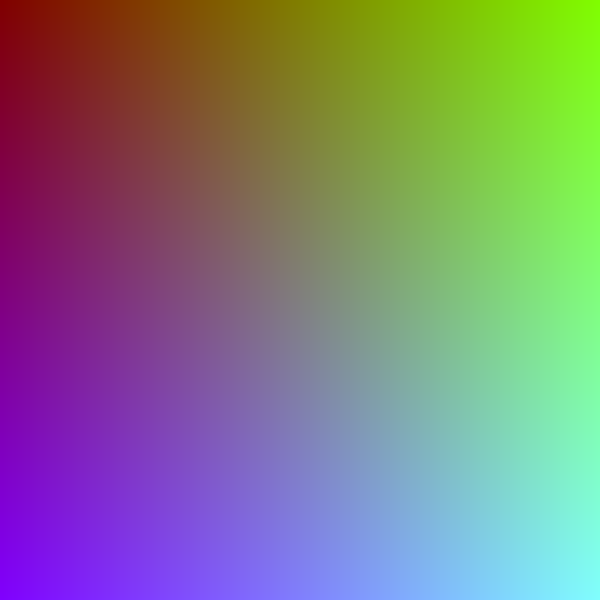
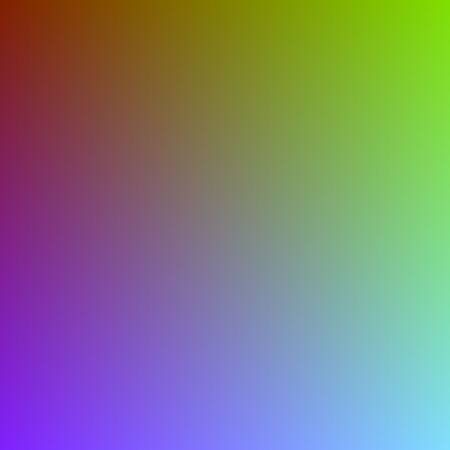
Fix tile orientation and support rectangle photos

Changed region(s): [[0.8711, 0.0, 1.0, 1.0], [0.0, 0.0, 0.1244, 1.0]]

diff --git a/tile.py b/tile.py
@@ -1,22 +1,10 @@
 import cv2
 
-
 class Tile:
-    """
-    One piece of the scrambled image.
-
-    Encapsulation: the tile's pixel data and transform state (rotation,
-    flips) are private (_prefixed) and only reachable through methods or
-    read-only properties — nothing outside this class reaches in and
-    edits them directly.
-    """
-
-    ROTATION_STEP = 90
-    FULL_ROTATION = 360
-
+    
     def __init__(self, image, home_row, home_col):
         """
-        image: the tile's original, unrotated/unflipped pixels (numpy array).
+        image: the tile's original pixels (numpy array).
         home_row, home_col: where this tile belongs when the puzzle is solved.
         """
         self._base_image = image
@@ -24,9 +12,8 @@ class Tile:
         self._home_col = home_col
         self._current_row = home_row
         self._current_col = home_col
-        self._rotation = 0
-        self._flip_horizontal = False
-        self._flip_vertical = False
+        self._turns = 0
+        self._mirrored = False
 
     @property
     def home_row(self):
@@ -49,49 +36,52 @@ class Tile:
         self._current_col = col
 
     def rotate(self, clockwise=True):
-        step = self.ROTATION_STEP if clockwise else -self.ROTATION_STEP
-        self._rotation = (self._rotation + step) % self.FULL_ROTATION
+        """Turns the tile 90 degrees."""
+        if clockwise:
+            self._turns = (self._turns + 1) % 4
+        else:
+            self._turns = (self._turns - 1) % 4
 
     def flip(self, direction):
         """direction is 'horizontal' or 'vertical'."""
         if direction == 'horizontal':
-            self._flip_horizontal = not self._flip_horizontal
+            # mirroring a turned tile is the same as mirroring first
+            # and then turning the other way
+            self._turns = (-self._turns) % 4
         elif direction == 'vertical':
-            self._flip_vertical = not self._flip_vertical
+            # a vertical flip is a horizontal flip plus a half turn
+            self._turns = (2 - self._turns) % 4
         else:
             raise ValueError("direction must be 'horizontal' or 'vertical'")
+        self._mirrored = not self._mirrored
 
     def reset(self):
-        """Clears rotation/flip state, but leaves current position alone —
+        """Clears rotation/flip, but leaves current position alone.
         Puzzle.solve() is responsible for moving tiles back home."""
-        self._rotation = 0
-        self._flip_horizontal = False
-        self._flip_vertical = False
+        self._turns = 0
+        self._mirrored = False
 
     def is_correct(self):
         return (
             self._current_row == self._home_row
             and self._current_col == self._home_col
-            and self._rotation == 0
-            and not self._flip_horizontal
-            and not self._flip_vertical
+            and self._turns == 0
+            and not self._mirrored
         )
 
     def get_display_image(self):
-        """Returns the tile's pixels with its current rotation/flip applied,
-        without touching the stored original."""
+        """Returns the tile's pixels with its current orientation applied,
+        without changing the stored original."""
         image = self._base_image
 
-        if self._flip_horizontal:
+        if self._mirrored:
             image = cv2.flip(image, 1)
-        if self._flip_vertical:
-            image = cv2.flip(image, 0)
 
-        if self._rotation == 90:
+        if self._turns == 1:
             image = cv2.rotate(image, cv2.ROTATE_90_CLOCKWISE)
-        elif self._rotation == 180:
+        elif self._turns == 2:
             image = cv2.rotate(image, cv2.ROTATE_180)
-        elif self._rotation == 270:
+        elif self._turns == 3:
             image = cv2.rotate(image, cv2.ROTATE_90_COUNTERCLOCKWISE)
 
         return image

diff --git a/puzzle.py b/puzzle.py
@@ -8,14 +8,7 @@ from transformations import SwapTransformation, RotateTransformation, FlipTransf
 
 
 class Puzzle:
-    """
-    Holds the current arrangement of tiles and all the game logic:
-    loading/splitting an image, scrambling it, swapping/rotating/flipping
-    tiles, tracking moves, hints and win detection.
-
-    Class interaction: Puzzle creates and manages Tile objects, and builds
-    Transformation objects (polymorphically applied) when scrambling.
-    """
+    
 
     TRANSFORM_COUNTS = {3: 6, 4: 12, 5: 20}
     MAX_DISPLAY_SIZE = 600
@@ -46,7 +39,13 @@ class Puzzle:
         return self._solved
 
     def load_image(self, path):
-        image = cv2.imread(path)
+        # np.fromfile + imdecode also works for folders with special
+        # characters in their name, which cv2.imread can't open on Windows
+        try:
+            data = np.fromfile(path, dtype=np.uint8)
+        except OSError:
+            raise ValueError(f"Could not read image: {path}")
+        image = cv2.imdecode(data, cv2.IMREAD_COLOR)
         if image is None:
             raise ValueError(f"Could not read image: {path}")
 
@@ -71,12 +70,16 @@ class Puzzle:
         return cv2.resize(image, new_size, interpolation=cv2.INTER_AREA)
 
     def _crop_to_grid(self, image):
+        # Tiles must be square, otherwise a rotated tile would no longer
+        # fit back in its spot. So cut a square from the middle of the
+        # picture, sized so it divides evenly into the grid.
         height, width = image.shape[:2]
-        new_height = (height // self._grid_size) * self._grid_size
-        new_width = (width // self._grid_size) * self._grid_size
-        if new_height == 0 or new_width == 0:
+        side = (min(height, width) // self._grid_size) * self._grid_size
+        if side == 0:
             raise ValueError("Image is too small for this grid size")
-        return image[:new_height, :new_width]
+        top = (height - side) // 2
+        left = (width - side) // 2
+        return image[top:top + side, left:left + side]
 
     def _split_into_tiles(self, image):
         height, width = image.shape[:2]
@@ -99,6 +102,8 @@ class Puzzle:
         return self._tiles[self._index_of(position)]
 
     def swap_tiles(self, position1, position2, count_move=True):
+        if count_move and self._solved:
+            return
         i1 = self._index_of(position1)
         i2 = self._index_of(position2)
 
@@ -109,10 +114,14 @@ class Puzzle:
         self._after_move(count_move)
 
     def rotate_tile(self, position, count_move=True):
+        if count_move and self._solved:
+            return
         self.tile_at(position).rotate()
         self._after_move(count_move)
 
     def flip_tile(self, position, direction='horizontal', count_move=True):
+        if count_move and self._solved:
+            return
         self.tile_at(position).flip(direction)
         self._after_move(count_move)
 
@@ -124,10 +133,15 @@ class Puzzle:
 
     def scramble(self):
         count = self.TRANSFORM_COUNTS.get(self._grid_size, self._grid_size ** 2 * 2)
-        transformations = [self._random_transformation() for _ in range(count)]
 
-        for transformation in transformations:
-            transformation.apply(self)
+        # All transformations are made at once, then applied. In the rare
+        # case they cancel each other out, scramble again.
+        while True:
+            transformations = [self._random_transformation() for _ in range(count)]
+            for transformation in transformations:
+                transformation.apply(self)
+            if not all(tile.is_correct() for tile in self._tiles):
+                break
 
         self._moves = 0
         self._hints_used = 0

diff --git a/test_puzzle.py b/test_puzzle.py
@@ -5,11 +5,12 @@ from puzzle import Puzzle
 
 
 def make_test_image(path):
-    """Makes a simple colourful test picture so we don't need a real photo."""
-    image = np.zeros((300, 300, 3), dtype=np.uint8)
+    """Makes a simple colourful test picture so we don't need a real photo.
+    It's a rectangle (like a normal photo), not a square."""
+    image = np.zeros((300, 400, 3), dtype=np.uint8)
     for row in range(300):
-        for col in range(300):
-            image[row, col] = [(row * 255) // 300, (col * 255) // 300, 128]
+        for col in range(400):
+            image[row, col] = [(row * 255) // 300, (col * 255) // 400, 128]
     cv2.imwrite(path, image)
 
 
